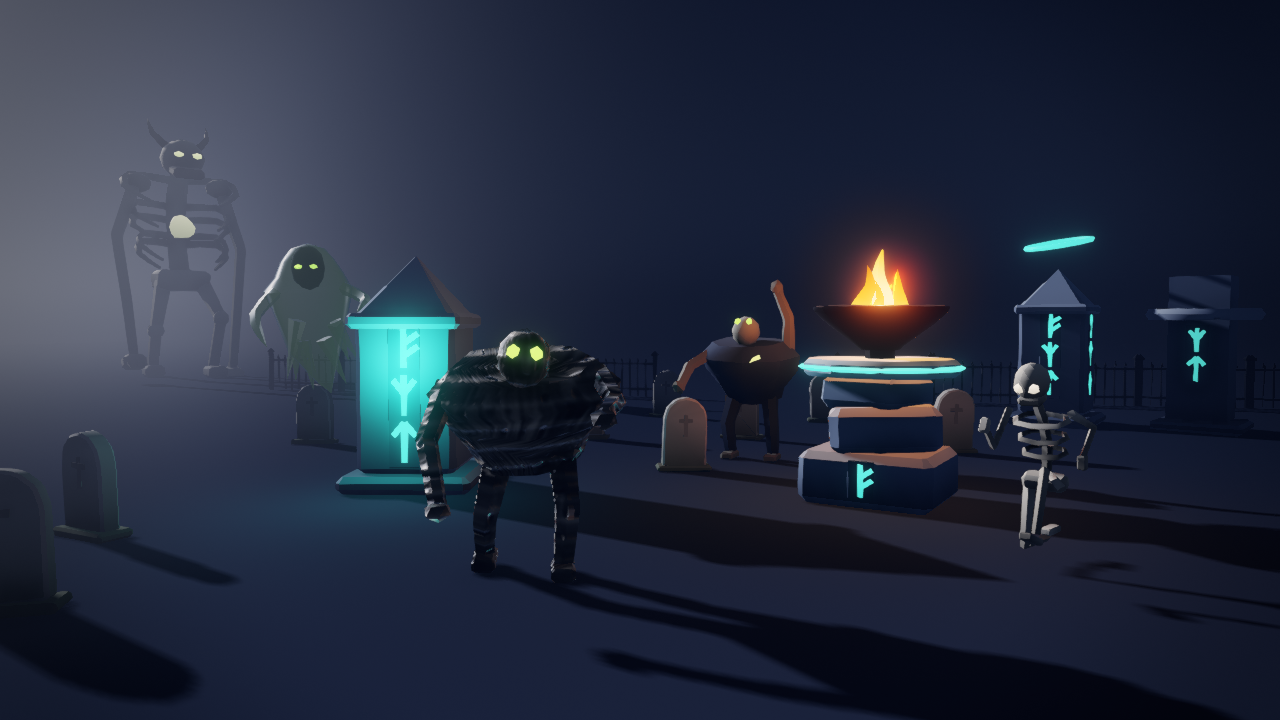
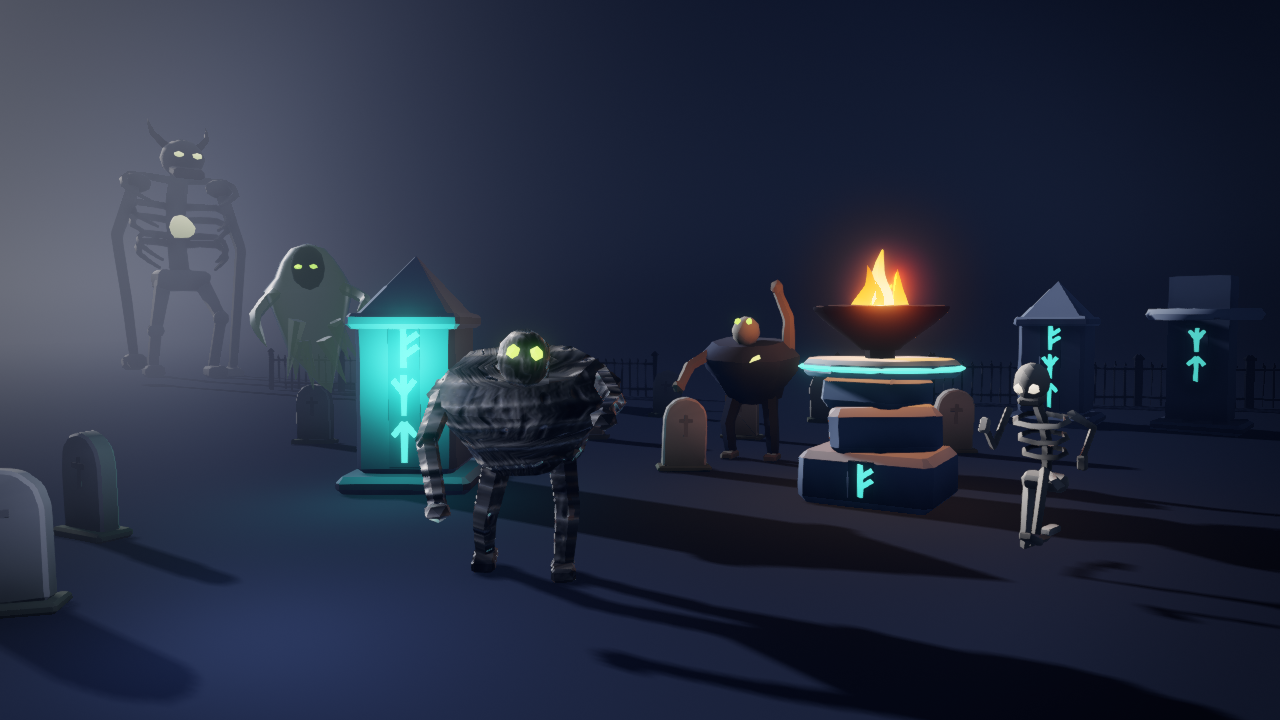
M2 exit: final numbers in ROADMAP and perf/README, hero shot from the final iGPU run

diff --git a/docs/ROADMAP.md b/docs/ROADMAP.md
@@ -392,12 +392,17 @@ recipe creatures playing clips; every model `ready`, each creature's pixels chan
 ground inside two props' shadows is >25% darker than the same frame with shadows off while open ground is unchanged
 ([hero shot](fidelity/m2_exit_hero.png)). (2) A box behind a wall must have `visible_px` 0 and `occluded`; SKIPPED
 until the ID buffer lands. (3) A windowed engine at 1280×720 with the full night effect stack and
-`perf.example.toml`: 10,000 entities (8,000 cubes + 2,000 tombstone models, 3 instanced draw calls) over 120 frames;
-the frame's GPU time, pacing, draws, triangles, GPU memory and late pipelines must hold; per-pass and CPU-side
-misses are reported as notes. *2026-10-16:* (1) and (3) pass on both GPUs; Intel iGPU GPU p95 7.0–8.8 ms over five
-runs (budget 14), RTX 4090 Laptop 0.4–0.5 ms. (2) is SKIPPED on `main`; run against the unmerged Sight lane's
-build (`--exe`), it passes on both GPUs (hidden box `visible_px` 0, `occluded`; control box 8,543 px). Note: the window's `frame/draw_list` CPU zone is 1.9–2.8 ms p95 at
-10k entities (budget 1.5).
+`perf.example.toml`, two 10,000-entity worlds over 120 frames each: "mixed" (8,000 cubes + 2,000 tombstone models, 3
+instanced draw calls) and "tombstones" (10,000 tombstone models, 2 draw calls); the frame's GPU time, pacing, draws,
+triangles, GPU memory, late pipelines and the CPU time building the window's draws (`frame/draw_list`) must hold;
+per-pass and other CPU misses are reported as notes. *2026-10-16:* (1) and (3) pass on both GPUs. Intel iGPU: GPU
+p95 7.1 ms mixed / 9.2 ms tombstones (budget 14), draw list p95 0.36 / 0.53 ms (budget 1.5); RTX 4090 Laptop: GPU
+p95 1.4 / 1.3 ms. (2) is SKIPPED on `main`; run against the unmerged Sight lane's build (`--exe`), it passes on
+both GPUs (hidden box `visible_px` 0, `occluded`; control box 8,543 px). What it took: point lights from a World
+index instead of a walk over every entity, the window's draw list cached between world changes (10k entities: 1.9–2.8
+→ 0.36 ms p95 on the iGPU), and a coarse recipe rebuild as the far LOD where clustering can't make one (tombstones
+320/247 → 320/247/60 triangles; the 10k-tombstone field went from 15.9 ms GPU p95 and 1.94M triangles to 9.2 ms and
+0.47M).
 
 ---
 

diff --git a/perf/README.md b/perf/README.md
@@ -29,13 +29,18 @@ start-up with the line and column. `perf_frame` (and `perf_capture`'s summary) r
 
 # M2 exit proof: 10k instances on the iGPU
 
-`python scripts/m2_exit.py --adapter both` (release build) also measures a 10,000-entity world in the
-window at 1280x720 with the Sepulcra night effects (shadows, SSAO, bloom, fog, grading, FXAA) against
-`perf.example.toml`, through `perf_capture` (120 frames, budgets on the p95). The frame's GPU ms,
-pacing, draw calls, triangles, GPU memory and pipelines after warm-up decide it; per-pass and CPU-side
-misses are printed as notes. `--criteria 3` runs only that part. Timings vary between runs (other
-engines on the machine share the GPU; the script warns when it sees them): on 2026-10-16 the Intel
-iGPU's GPU p95 ranged 7.0-8.8 ms over five runs.
+`python scripts/m2_exit.py --adapter both` (release build) also measures two 10,000-entity worlds in
+the window at 1280x720 with the Sepulcra night effects (shadows, SSAO, bloom, fog, grading, FXAA)
+against `perf.example.toml`, through `perf_capture` (120 frames each, budgets on the p95): "mixed"
+(8,000 cubes + 2,000 tombstone models) and "tombstones" (10,000 tombstone models). The frame's GPU ms,
+pacing, draw calls, triangles, GPU memory, pipelines after warm-up and the CPU zone `frame/draw_list`
+decide it; per-pass and other CPU misses are printed as notes. `--criteria 3` runs only that part.
+Timings vary between runs (other engines on the machine share the GPU; the script warns when it sees
+them). On 2026-10-16, Intel iGPU: GPU p95 7.1 / 9.2 ms, draw list p95 0.36 / 0.53 ms.
+
+`cargo test --release -p specula --test draw_list_10k -- --nocapture` times the window's CPU draw work
+for a 10k-entity world (the full walk captures use vs the window's cache, warm and with cold caches)
+and checks that a warm frame allocates nothing.
 
 **Shape budgets (world limits).** `[budgets]` also sets how many vertices the distinct `shape2d` shapes
 of a world may need (their parse-time upper bounds; identical shapes count once), in two pools:
